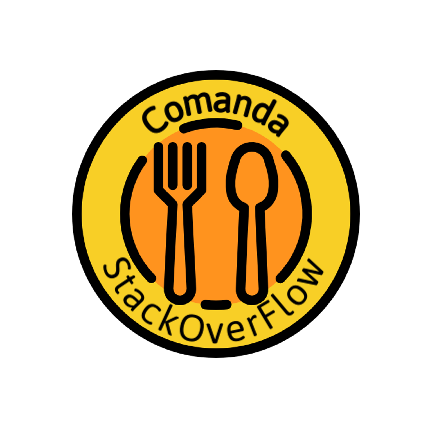
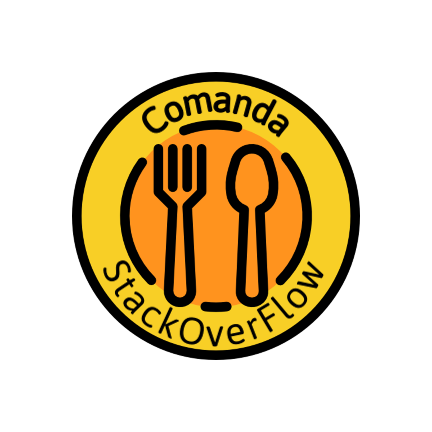
fix splash

diff --git a/src/app/splash/splash.page.scss b/src/app/splash/splash.page.scss
@@ -1,32 +1,17 @@
-ion-content{
-   --background: #751722;
-     width: 100%;
-    min-height: 100vh;
-    background-size: cover;
-    text-align: center;
-    background-position: center center;
-    background-repeat: no-repeat;
-    background-attachment: fixed;
-    display: block;
-}
-
-
-
-.container{
-
-    .img1
-    {
-        margin-top: 20px;
-    }
-
-   .img2
-    {
-      margin-top: 80px;
-    }
-
+ion-content {
+  --background: #751722;
+  width: 100%;
+  min-height: 100vh;
+  background-size: cover;
+  text-align: center;
+  background-position: center center;
+  background-repeat: no-repeat;
+  background-attachment: fixed;
+  display: block;
 }
 
 .rotate-center {
+  margin-top: 200px;
   -webkit-animation: rotate-center 2s ease-in-out both;
   animation: rotate-center 2s ease-in-out both;
 }
@@ -47,6 +32,7 @@ ion-content{
     transform: rotate(360deg);
   }
 }
+
 @keyframes rotate-center {
   0% {
     -webkit-transform: rotate(0);
@@ -58,3 +44,34 @@ ion-content{
   }
 }
 
+@-webkit-keyframes text-focus-in {
+  0% {
+    -webkit-filter: blur(12px);
+    filter: blur(12px);
+    opacity: 0
+  }
+  100% {
+    -webkit-filter: blur(0);
+    filter: blur(0);
+    opacity: 1
+  }
+}
+
+@keyframes text-focus-in {
+  0% {
+    -webkit-filter: blur(12px);
+    filter: blur(12px);
+    opacity: 0
+  }
+  100% {
+    -webkit-filter: blur(0);
+    filter: blur(0);
+    opacity: 1
+  }
+}
+
+.bottom {
+  margin-top: 40px;
+  -webkit-animation: text-focus-in 1s cubic-bezier(.55, .085, .68, .53) both;
+  animation: text-focus-in 1s cubic-bezier(.55, .085, .68, .53) both;
+}

diff --git a/src/app/splash/splash.page.html b/src/app/splash/splash.page.html
@@ -1,7 +1,7 @@
 <ion-content>
   <div class=container>
-      <img src="assets/splash/top.png" class="img1" height="180px">
-      <img src="assets/splash/center2.png" class="rotate-center" height="150px" width="150px">
 
+      <img src="assets/splash/center.png" class="rotate-center" height="200px" width="200px">
+      <img src="../../assets/splash/bottom.png" class="bottom" height="120px">
   </div>
 </ion-content>
